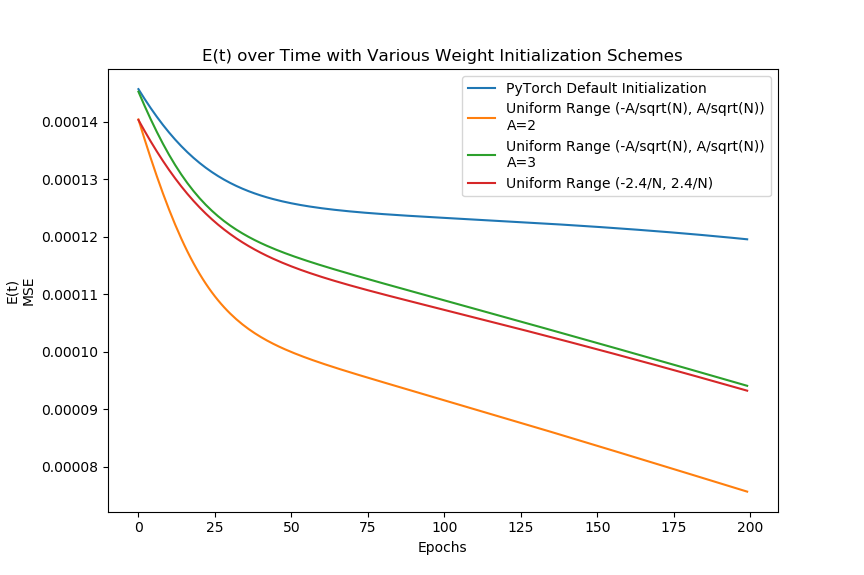
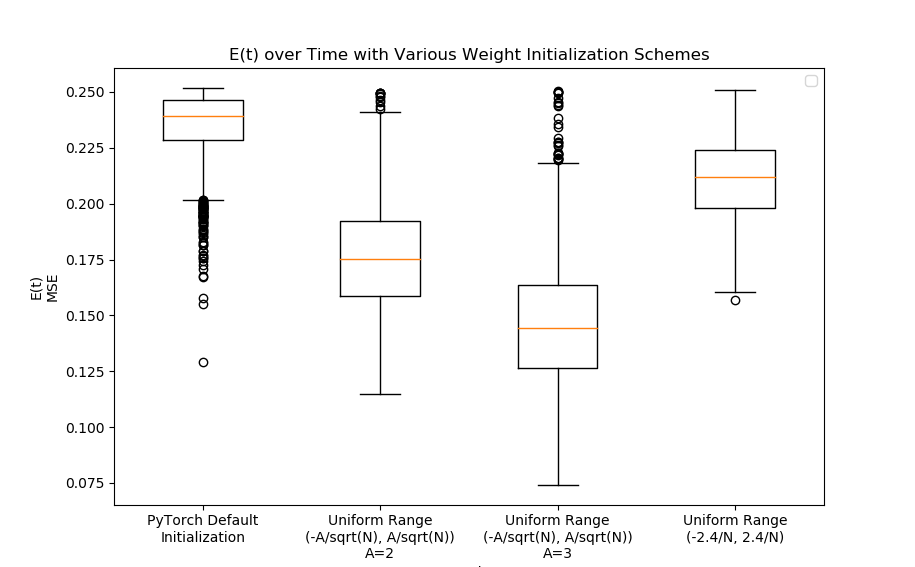
Changed graph to box and whisker.

diff --git a/7. Weight-Initialization Techniques/7.1 Random Initialization/randominit.py b/7. Weight-Initialization Techniques/7.1 Random Initialization/randominit.py
@@ -157,51 +157,60 @@ fig, ax = plt.subplots(1, 1)
 
 num_to_test = 2000
 
+losses1 = []
 for i in range(num_to_test):
-    losses1 = np.zeros(epochs)
+    losses = np.zeros(epochs)
     network, optimizer = createNetwork()
-    losses1 += trainNetwork(network, optimizer)
+    losses += trainNetwork(network, optimizer)
+    losses1.append(losses[-1])
     print(str(i+1) + '/' + str(num_to_test))
-losses1 /= num_to_test
-ax.plot(losses1, label='PyTorch Default Initialization')
 print('Network 1/4 COMPLETE . . .\n\n\n')
 
+losses2 = []
 for i in range(num_to_test):
-    losses2 = np.zeros(epochs)
+    losses = np.zeros(epochs)
     network, optimizer = createNetwork()
     network.to('cpu')
     network.initRandom(2)
     network.to(device)
-    losses2 += trainNetwork(network, optimizer)
+    losses += trainNetwork(network, optimizer)
+    losses2.append(losses[-1])
     print(str(i+1) + '/' + str(num_to_test))
-losses2 /= num_to_test
-ax.plot(losses2, label='Uniform Range (-A/sqrt(N), A/sqrt(N))\nA=2')
 print('Network 2/4 COMPLETE . . .\n\n\n')
 
+losses3 = []
 for i in range(num_to_test):
-    losses3 = np.zeros(epochs)
+    losses = np.zeros(epochs)
     network, optimizer = createNetwork()
     network.to('cpu')
     network.initRandom(3)
     network.to(device)
-    losses3 += trainNetwork(network, optimizer)
+    losses += trainNetwork(network, optimizer)
+    losses3.append(losses[-1])
     print(str(i+1) + '/' + str(num_to_test))
-losses3 /= num_to_test
-ax.plot(losses3, label='Uniform Range (-A/sqrt(N), A/sqrt(N))\nA=3')
 print('Network 3/4 COMPLETE . . .\n\n\n')
 
+losses4 = []
 for i in range(num_to_test):
-    losses4 = np.zeros(epochs)
+    losses = np.zeros(epochs)
     network, optimizer = createNetwork()
     network.to('cpu')
     network.initRandomNoVariable()
     network.to(device)
-    losses4 += trainNetwork(network, optimizer)
+    losses += trainNetwork(network, optimizer)
+    losses4.append(losses[-1])
     print(str(i+1) + '/' + str(num_to_test))
-losses4 /= num_to_test
-ax.plot(losses4, label='Uniform Range (-2.4/N, 2.4/N)')
 print('Network 4/4 COMPLETE . . .\n\n\n')
 
+ax.boxplot(
+    [losses1, losses2, losses3, losses4],
+    labels=[
+        'PyTorch Default\nInitialization',
+        'Uniform Range\n(-A/sqrt(N), A/sqrt(N))\nA=2',
+        'Uniform Range\n(-A/sqrt(N), A/sqrt(N))\nA=3',
+        'Uniform Range\n(-2.4/N, 2.4/N)'
+    ]
+)
 ax.title.set_text('E(t) over Time with Various Weight Initialization Schemes')
 ax.set_xlabel('Epochs')
 ax.set_ylabel('E(t)\nMSE')
